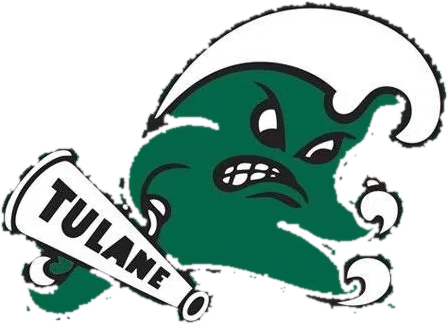
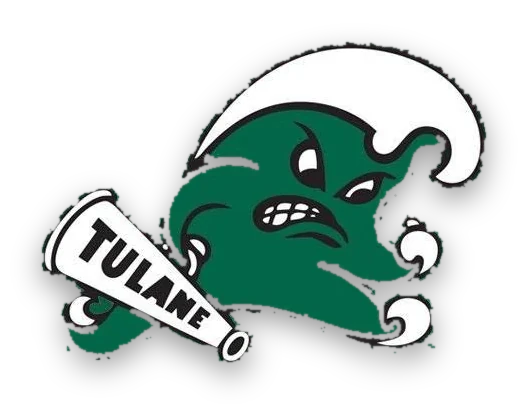
Transition: no filters on the mascot (Safari white-box bug); baked shadow

diff --git a/index.html b/index.html
@@ -186,11 +186,11 @@ body{background:var(--paper);color:var(--ink);font-family:var(--sans);font-size:
 .scene.swap .tag2{opacity:0}
 /* page transition: three staggered panels sweep in, the Green Wave lands, panels sweep out */
 .wipe{position:fixed;inset:0;z-index:4;pointer-events:none;overflow:hidden}
-.wl{position:absolute;top:0;bottom:0;left:-20%;width:140%;transform:translateX(-110%) skewX(-12deg);display:grid;place-items:center}
+.wl{position:absolute;top:0;bottom:0;left:-20%;width:140%;transform:translateX(-110%) skewX(-12deg);display:grid;place-items:center;will-change:transform;backface-visibility:hidden}
 .wl-a{background:#41B6E6}
 .wl-b{background:#006747}
 .wl-c{background:radial-gradient(ellipse at 50% 45%,#0a5a3b 0%,#063f29 75%)}
-.wl-c img{width:min(62vw,280px);height:auto;transform:skewX(12deg);opacity:0;filter:drop-shadow(0 10px 24px rgba(0,0,0,.35))}
+.wl-c img{width:min(72vw,326px);height:auto;transform:skewX(12deg);opacity:0;backface-visibility:hidden}
 .wipe.go .wl{animation:win .6s cubic-bezier(.76,0,.24,1) var(--in) both,wout .6s cubic-bezier(.76,0,.24,1) var(--out) forwards}
 .wipe.go .wl-a{--in:0s;--out:1.62s}
 .wipe.go .wl-b{--in:.09s;--out:1.53s}
@@ -198,7 +198,7 @@ body{background:var(--paper);color:var(--ink);font-family:var(--sans);font-size:
 .wipe.go .wl-c img{animation:wave .55s cubic-bezier(.2,.8,.2,1) .66s both}
 @keyframes win{from{transform:translateX(-110%) skewX(-12deg)}to{transform:translateX(0) skewX(-12deg)}}
 @keyframes wout{from{transform:translateX(0) skewX(-12deg)}to{transform:translateX(110%) skewX(-12deg)}}
-@keyframes wave{from{opacity:0;transform:skewX(12deg) scale(.78) rotate(-6deg);filter:blur(8px) drop-shadow(0 10px 24px rgba(0,0,0,.35))}to{opacity:1;transform:skewX(12deg) scale(1) rotate(0);filter:blur(0) drop-shadow(0 10px 24px rgba(0,0,0,.35))}}
+@keyframes wave{from{opacity:0;transform:skewX(12deg) scale(.78) rotate(-6deg)}to{opacity:1;transform:skewX(12deg) scale(1) rotate(0)}}
 .scene.ppl .tag2{display:none}
 .tag2{margin-top:0;font-family:var(--display);font-size:min(20px,4.5vw);line-height:1.15;text-wrap:balance}
 .fin{font-family:var(--display);font-weight:500;font-size:min(9vw,44px);line-height:1.2;letter-spacing:-.01em;text-wrap:balance}
@@ -223,7 +223,7 @@ body{background:var(--paper);color:var(--ink);font-family:var(--sans);font-size:
 <div class="stage" id="stage" aria-hidden="true">
   <div class="wipe" id="wipe">
     <span class="wl wl-a"></span><span class="wl wl-b"></span>
-    <span class="wl wl-c"><img src="img/greenwave.webp" width="448" height="324" alt=""></span>
+    <span class="wl wl-c"><img src="img/greenwave.webp" width="528" height="404" alt="" decoding="sync"></span>
   </div>
   <div class="scene" id="s1">
     <div class="brand"><img src="img/mark.svg" alt=""><span>Subconscious</span></div>
